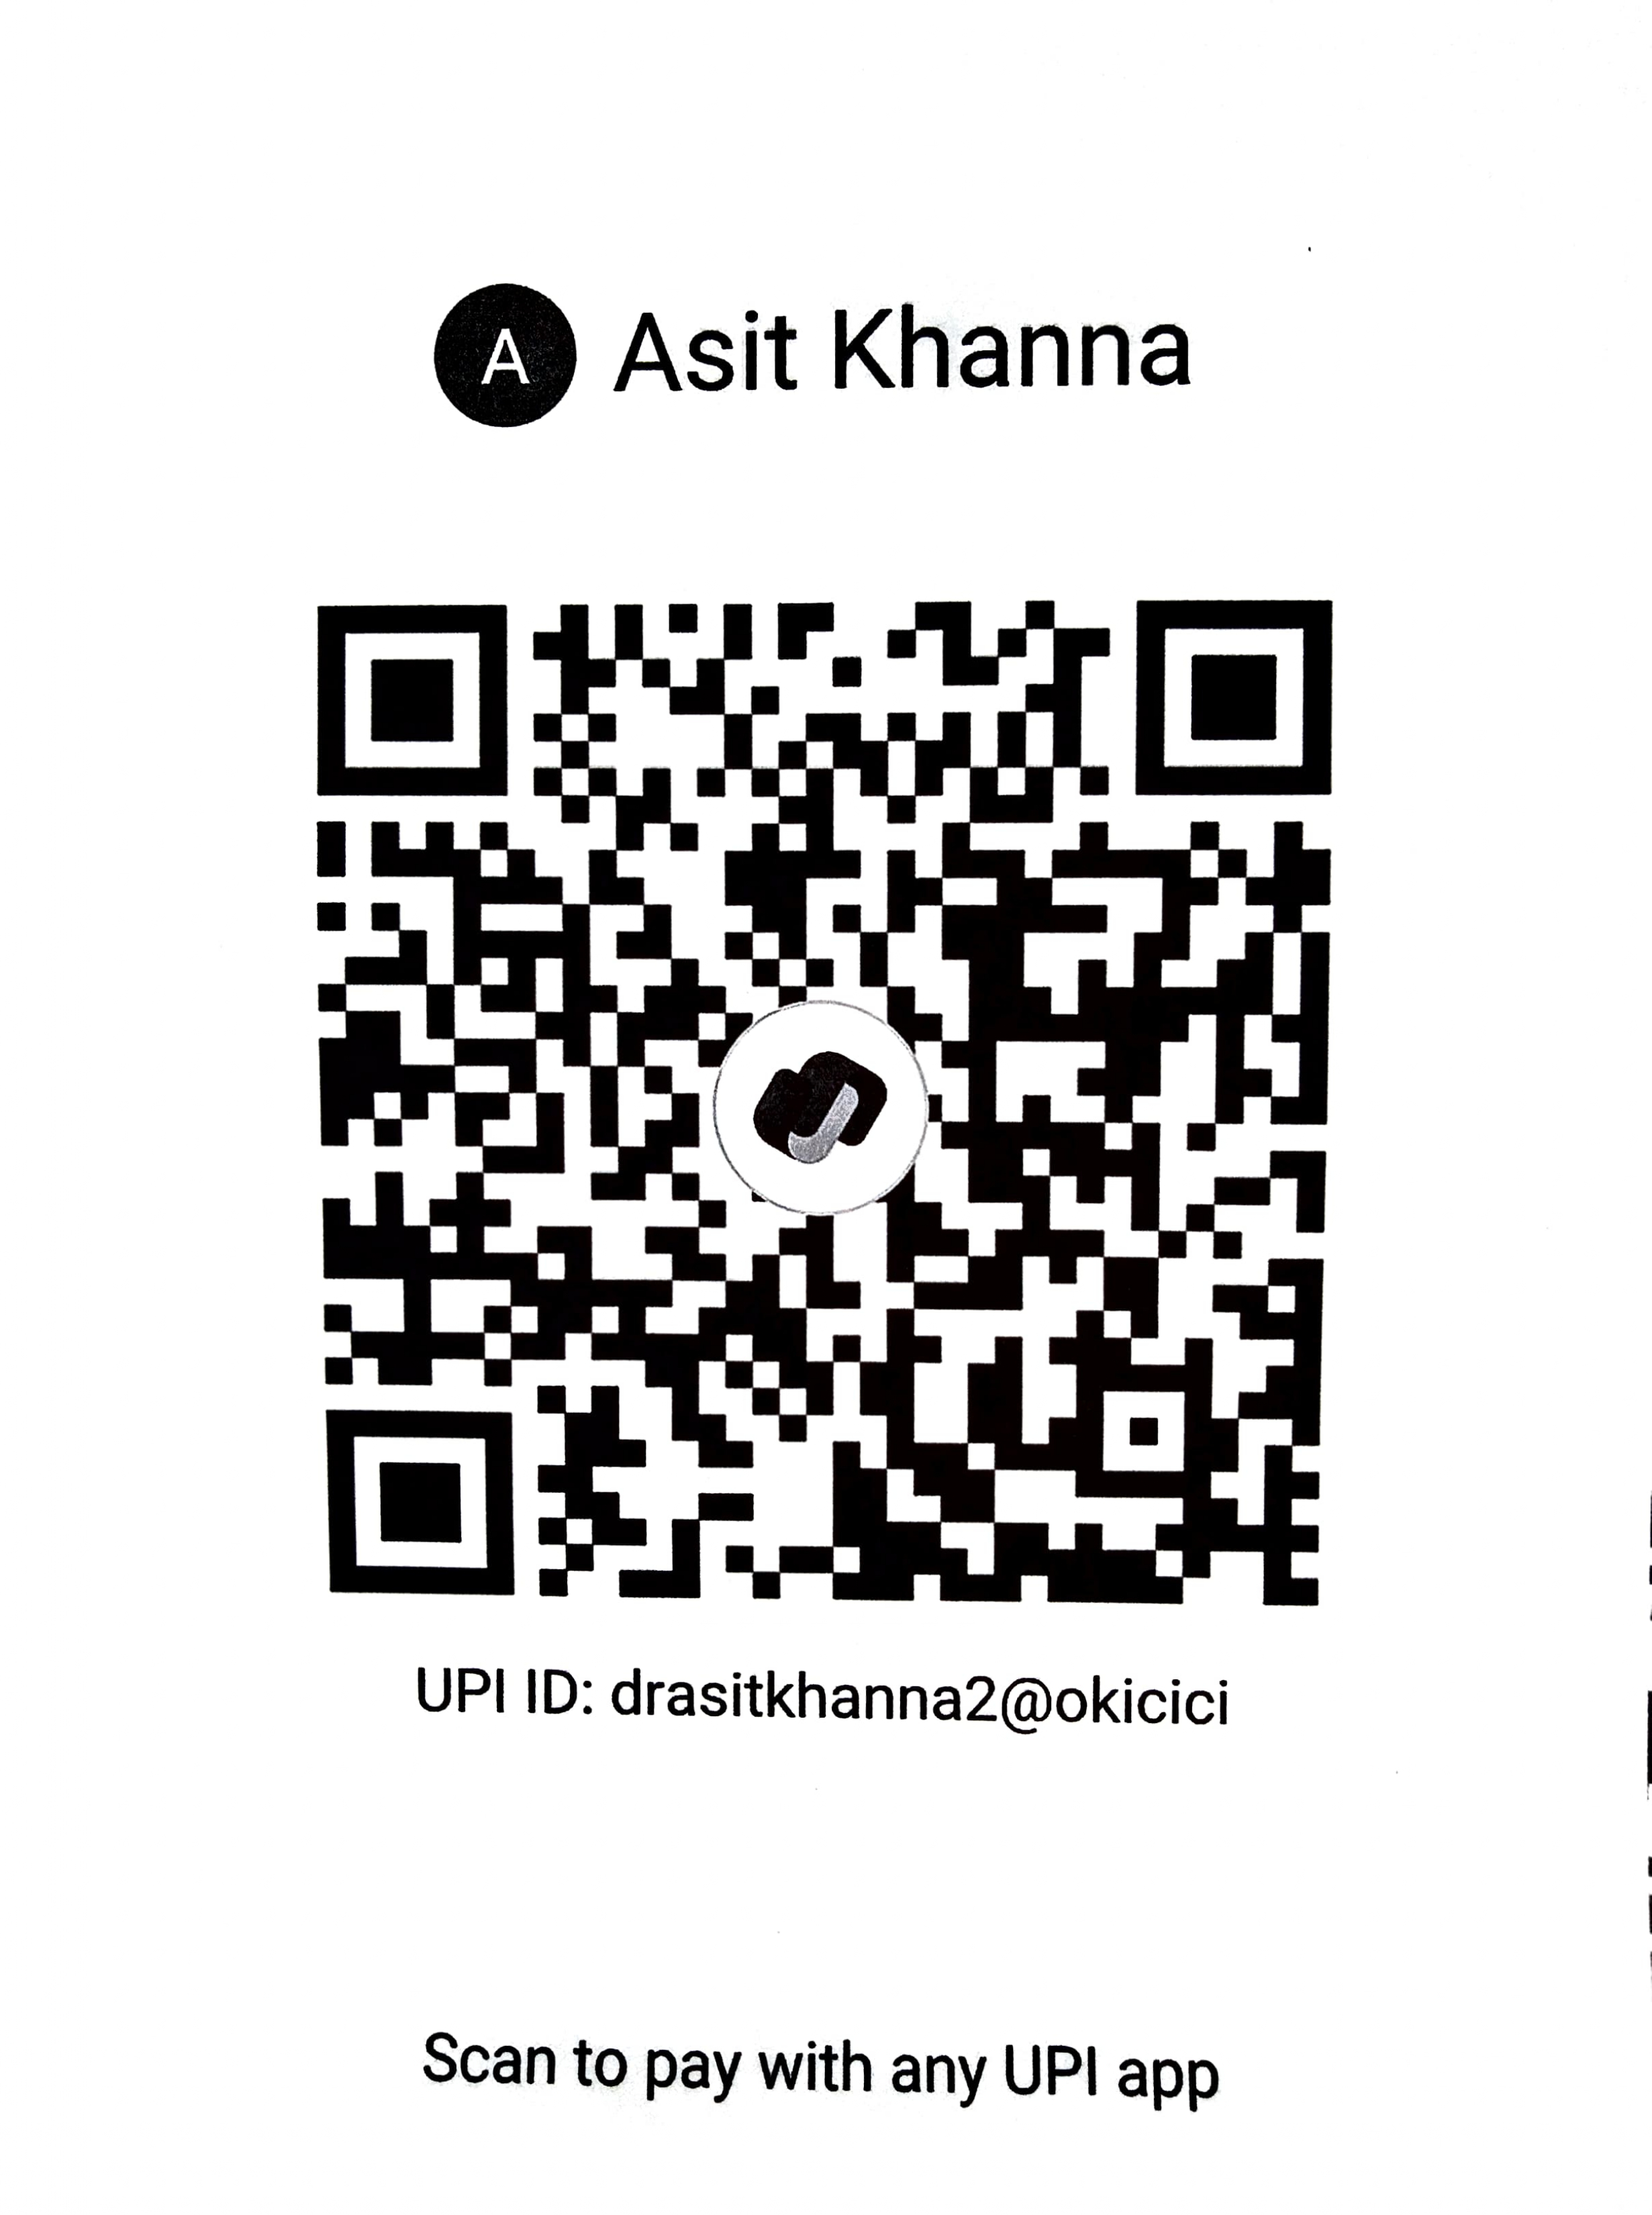
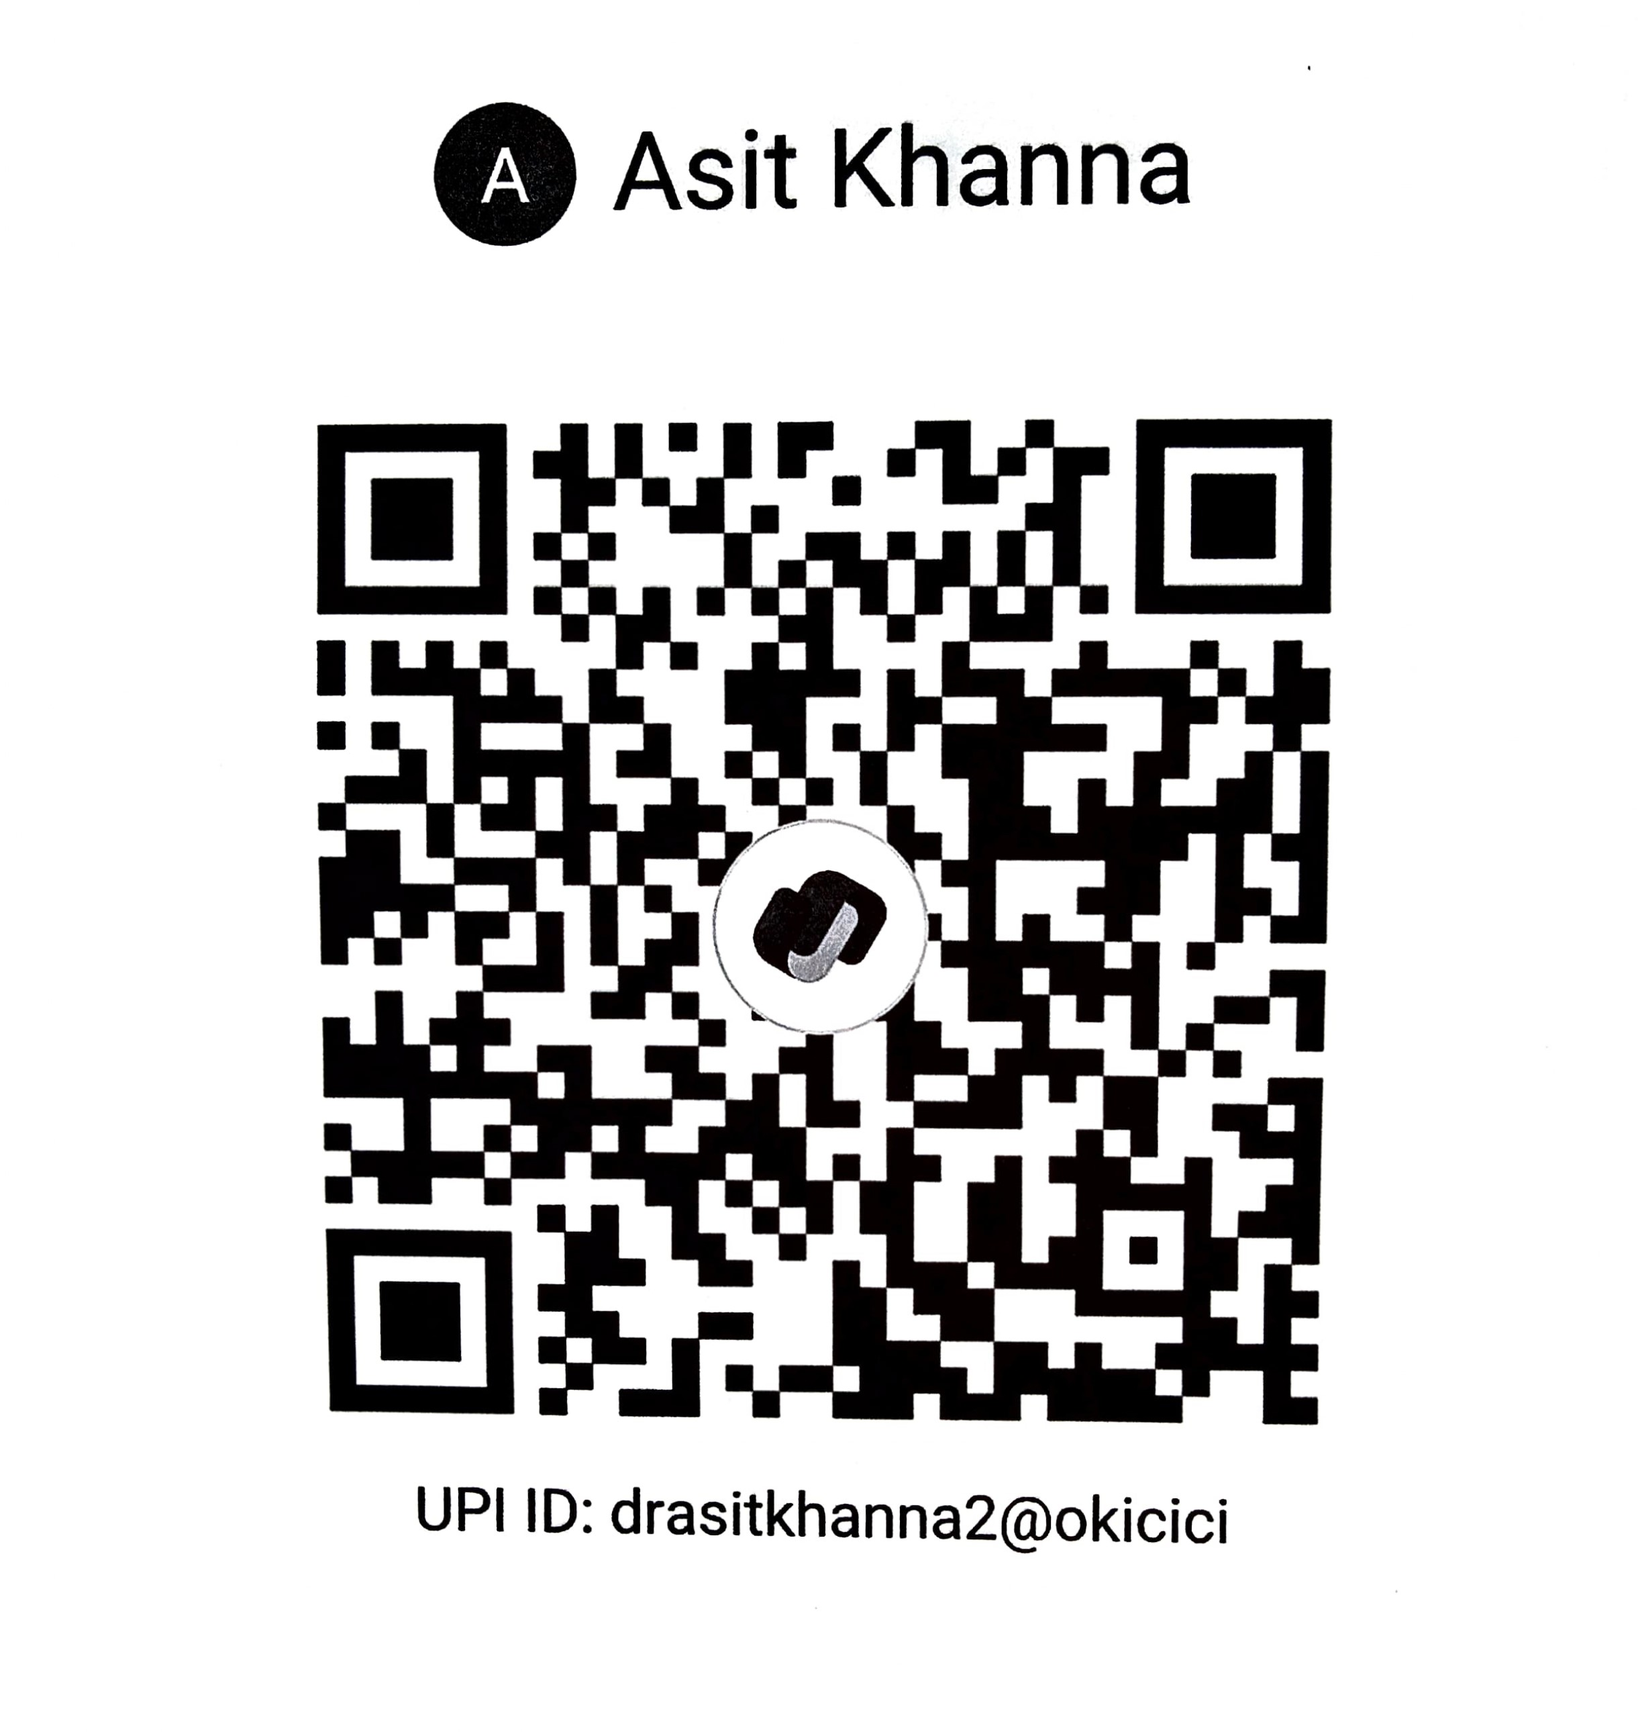
updates
changed the size of qr scanner and fixed the height of the payment section.

Changed region(s): [[0.1868, 0.062, 0.8406, 0.9612], [0.9963, 0.6822, 1.0, 0.8062], [0.9963, 0.8372, 1.0, 0.8992]]

diff --git a/Doctor Asit Khanna/index.html b/Doctor Asit Khanna/index.html
@@ -95,11 +95,11 @@
                                     src="images/icons/contacts.png" alt="contactcardicon" height="30px"
                                     width="30px">Contact</a>
                         </li>
-                        <!-- <li>
+                        <li>
                             <a href="#payment" class="nav-link" onclick="closeNav()"><img
                                     src="images/icons/cashless-payment.png" alt="contactcardicon" height="30px"
                                     width="30px">Payment</a>
-                        </li> -->
+                        </li>
                         <li>
                             <a href="#about" class="nav-link" onclick="closeNav()"><img
                                     src="images/icons/pdf.png" alt="contactcardicon" height="30px"
@@ -334,20 +334,18 @@
         </section>
 
         <!-- PAYMENT SECTION -->
-        <section id="payment" class="about-section mb-5">
-            <div class="container text-center text-white">
+        <section id="payment" class="about-section  mb-5">
+            <div class="container-fluid pb-3 pt-1 mt-5 text-center text-white">
                 <h3 class="about-service-heading">PAYMENT</h3>
 
-                <div class="row about-data">
-                    <div class="col-12">
-                        <!-- <h4>WELCOME IN THE WORLD OF JEWELERYS</h4> -->
-                        <img src="images/QR-Code.jpg" alt="" width="90%" height="90%">
+                <div class="row">
+                    <div class="col-12 about-data">
+                        <img src="images/QR-Code.jpg" alt="" width="70%" height="70%">
                         <p class="pt-2 m-4" style="text-align:center;color:#00d2ff;font-weight: 700;
                             font-size:18px;text-shadow: 2px 2px 2px #000;">
                            Scan & Pay Securely Using Above QR Code 
                         </p>
-                        <a style="padding:10px; text-align:center;background-color:#00d2ff;font-weight: 700; border-radius: 5px; color:white;
-                        font-size:18px;text-shadow: 2px 2px 2px #000;" href="images/QR-code.jpeg" download>Download QR <img src="images/icons/download.png" height="20px" width="20px" alt="download button image"></a>
+                        <a style="padding:10px; text-align:center;background-color:#00d2ff;font-weight: 700; border-radius: 5px; color:white;font-size:18px;text-shadow: 2px 2px 2px #000;box-shadow: 0 0 10px #00d2ff;" href="images/QR-Code.jpg" download>Download QR <img src="images/icons/download.png" height="20px" width="20px" alt="download button image"></a>
                     </div>
                 </div>
                
@@ -372,7 +370,7 @@
 
         <!-- About section -->
         <section id="about" class="about-section mt-5">
-            <div class="container mt-5">
+            <div class="container pt-1 mt-5">
                 <h3 class="about-service-heading">ABOUT US</h3>
 
                 <div class="row about-data">
